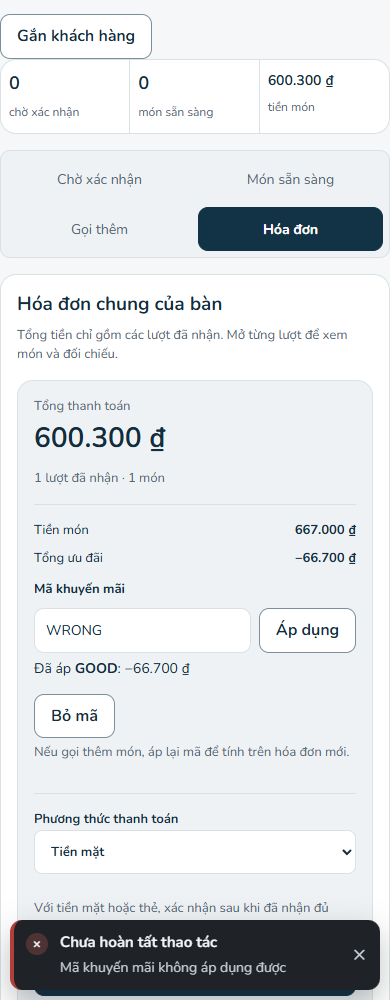
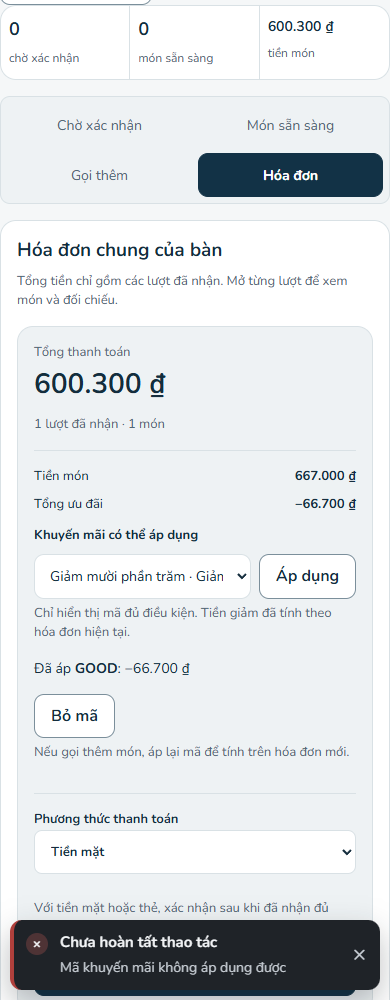
feat: select from eligible promotions instead of typing codes

Changed region(s): [[0.0, 0.0, 1.0, 0.651], [0.0, 0.0, 0.5538, 0.186], [0.9846, 0.031, 1.0, 0.155]]

diff --git a/src/service-workspace.js b/src/service-workspace.js
@@ -20,7 +20,7 @@ export function createServiceWorkspace({root, request, branchId, role, userId, i
   // Shares the console toast stack so the workspace and the shell announce
   // through one live region instead of two.
   const toast = sharedToast();
-  const state = {tables:[], products:[], table:null, session:null, tab:'confirm', paymentMethod:'CASH', promotionCode:'', filter:role==='CASHIER'?'PAY':'ALL', search:'', menuSearch:'', menuPage:1, category:'ALL', cart:new Map(), notes:new Map(), busy:false, message:'', bad:false, draft:null,serviceRequests:[]};
+  const state = {tables:[], products:[], table:null, session:null, tab:'confirm', paymentMethod:'CASH', promotionCode:'', promotions:[], promotionError:'', filter:role==='CASHIER'?'PAY':'ALL', search:'', menuSearch:'', menuPage:1, category:'ALL', cart:new Map(), notes:new Map(), busy:false, message:'', bad:false, draft:null,serviceRequests:[]};
   let disposed = false;
   let closeVnpay, customerDialog;
   let lastUpdated=null,syncError=false;
@@ -182,11 +182,18 @@ export function createServiceWorkspace({root, request, branchId, role, userId, i
       (next||holder).focus({preventScroll:true});
     }
   }
+  async function loadEligible(result,id){
+    result.promotions=[];result.promotionError='';
+    if(!mayPay||!result.session)return;
+    try{result.promotions=await request(`/api/staff/tables/${id}/promotions?branchId=${branchId}&sessionId=${encodeURIComponent(result.session.id)}`);}
+    catch(error){result.promotionError=error.message;}
+  }
+  function acceptEligible(result){state.promotions=Array.isArray(result.promotions)?result.promotions:[];state.promotionError=result.promotionError||'';if(!state.promotions.some(p=>p.code===state.promotionCode))state.promotionCode='';}
   function promotionPanel(){
     const selected=state.session?.checkoutPromotion;
     const discount=activeOrders().reduce((sum,o)=>sum+(o.discountAmount||0),0);
     const gross=activeOrders().reduce((sum,o)=>sum+o.totalAmount,0);
-    return `<section class="sw-promotion" aria-label="Mã khuyến mãi"><div class="sw-promotion-totals"><span>Tiền món</span><strong>${money(gross)}</strong><span>Tổng ưu đãi</span><strong>−${money(discount)}</strong></div><label for="sw-promotion-code">Mã khuyến mãi</label><div class="sw-promotion-entry"><input id="sw-promotion-code" data-sw-input="promotion" value="${e(state.promotionCode)}" maxlength="32" placeholder="Nhập mã khuyến mãi" autocomplete="off" autocapitalize="characters">${button('Áp dụng','apply-promotion')}</div>${selected?`<p class="sw-promotion-applied">Đã áp <strong>${e(selected.code)}</strong>: −${money(selected.amount)}</p>${button('Bỏ mã','remove-promotion')}<p class="sw-help">Nếu gọi thêm món, áp lại mã để tính trên hóa đơn mới.</p>`:'<p class="sw-help">Mã thành viên cần gắn khách trước khi áp dụng.</p>'}</section>`;
+    return `<section class="sw-promotion" aria-label="Mã khuyến mãi"><div class="sw-promotion-totals"><span>Tiền món</span><strong>${money(gross)}</strong><span>Tổng ưu đãi</span><strong>−${money(discount)}</strong></div><label for="sw-promotion-code">Khuyến mãi có thể áp dụng</label><div class="sw-promotion-entry"><select id="sw-promotion-code" data-sw-input="promotion" ${state.promotions.length?'':'disabled'}><option value="">Chọn ưu đãi</option>${state.promotions.map(p=>`<option value="${e(p.code)}" ${state.promotionCode===p.code?'selected':''}>${e(p.name)} · Giảm ${money(p.discountAmount)} (${e(p.code)})</option>`).join('')}</select>${button('Áp dụng','apply-promotion',state.promotions.length?'':'data-locked="true"')}</div>${state.promotionError?`<p class="sw-help" role="status">${e(state.promotionError)}</p>`:!state.promotions.length?'<p class="sw-help">Chưa có mã đủ điều kiện cho hóa đơn và khách hiện tại.</p>':'<p class="sw-help">Chỉ hiển thị mã đủ điều kiện. Tiền giảm đã tính theo hóa đơn hiện tại.</p>'}${selected?`<p class="sw-promotion-applied">Đã áp <strong>${e(selected.code)}</strong>: −${money(selected.amount)}</p>${button('Bỏ mã','remove-promotion')}<p class="sw-help">Nếu gọi thêm món, áp lại mã để tính trên hóa đơn mới.</p>`:'<p class="sw-help">Mã thành viên cần gắn khách trước khi áp dụng.</p>'}</section>`;
   }
   function patchTable() {
     if(!state.session || !root.querySelector('[data-sw-panel]')) { render(); return; }
@@ -197,7 +204,7 @@ export function createServiceWorkspace({root, request, branchId, role, userId, i
     const tabFocused = tabList.contains(document.activeElement);
     tabList.innerHTML = tabs();
     if (tabFocused) tabList.querySelector('[aria-selected="true"]').focus({preventScroll:true});
-    const snapshot = JSON.stringify([state.session.orders, state.tab, state.draft]);
+    const snapshot = JSON.stringify([state.session.orders,state.tab,state.draft,state.promotions,state.promotionError,state.session.checkoutPromotion]);
     const holder = root.querySelector('[data-sw-panel]');
     holder.setAttribute('aria-labelledby',`sw-tab-${state.tab}`);
     if(state.tab!=='menu' && panelSnapshot!==snapshot && !(holder.contains(document.activeElement) && document.activeElement.matches('input,textarea,select'))) {
@@ -232,7 +239,9 @@ export function createServiceWorkspace({root, request, branchId, role, userId, i
     }
     const id=state.table.id, version=selection;
     const [result, products] = await Promise.all([request(`/api/staff/tables/${id}/session?branchId=${branchId}`),loadProducts(force)]);
+    await loadEligible(result,id);
     if(disposed||version!==selection||state.table?.id!==id) return;
+    acceptEligible(result);
     const removed=state.products.filter(p=>state.cart.has(p.id)&&!products.some(n=>n.id===p.id));products.push(...removed.map(p=>({...p,isActive:false,canOrder:false,availabilityReason:'Đã ngừng bán'})));
     const pricesChanged=products.some(p=>state.cart.has(p.id)&&state.products.some(old=>old.id===p.id&&old.sellingPrice!==p.sellingPrice));
     state.products=products;
@@ -255,7 +264,9 @@ export function createServiceWorkspace({root, request, branchId, role, userId, i
     const version=++selection;
     const table=state.tables.find(t=>t.id===id); if(!table) return;
     const [result,products]=await Promise.all([request(`/api/staff/tables/${id}/session?branchId=${branchId}`),loadProducts()]);
+    await loadEligible(result,id);
     if(disposed||version!==selection) return;
+    acceptEligible(result);
     state.paymentMethod='CASH';state.promotionCode='';state.products=products;state.table={...table,...result.table};state.session=result.session;state.serviceRequests=result.serviceRequests||[];state.cart.clear();state.notes.clear();state.draft=readDraft(id);
     lastUpdated=new Date();syncError=false;state.tab=cashierView&&activeOrders().length?'bill':waitingOrders().length?'confirm':readyItems().length?'ready':activeOrders().length?'bill':'menu';render();
   }
@@ -326,7 +337,7 @@ export function createServiceWorkspace({root, request, branchId, role, userId, i
       if(action==='retry') return mutation(()=>submitDraft(state.draft),'Đã nhận lượt gọi món, không tạo trùng.');
       if(action==='discard') {clearDraft(state.table.id);state.draft=null;render();return;}
       if(action==='close') { if(!mayCloseEmpty())throw Error('Bàn còn yêu cầu hoặc món đang phục vụ. Vui lòng xử lý trước khi đóng.'); if(state.draft)throw Error('Còn lượt gọi món chưa rõ đã gửi thành công. Kiểm tra hoặc xóa bản nháp trước khi đóng bàn.'); if(!await confirmDialog({title:'Đóng bàn chưa gọi món?',message:`${state.table.tableName} sẽ trở về trạng thái trống. Món đang chọn trong giỏ sẽ được bỏ.`,confirmLabel:'Đóng bàn'}))return; return mutation(async()=>{await post(`/api/staff/tables/${state.table.id}/close-empty`);clearDraft(state.table.id);state.cart.clear();state.notes.clear();state.table=null;state.session=null;render();},'Đã đóng bàn, không phát sinh thanh toán.'); }
-      if(action==='apply-promotion'||action==='remove-promotion'){const code=action==='remove-promotion'?'':state.promotionCode.trim();if(action==='apply-promotion'&&!code)throw Error('Nhập mã khuyến mãi trước khi áp dụng.');root.querySelector('[data-sw-input=promotion]')?.blur();return mutation(async()=>{await post(`/api/staff/tables/${state.table.id}/promotion`,{sessionId:state.session.id,code});state.promotionCode='';},code?'Đã áp mã và cập nhật tổng thanh toán.':'Đã bỏ mã khuyến mãi.');}
+      if(action==='apply-promotion'||action==='remove-promotion'){const code=action==='remove-promotion'?'':state.promotionCode.trim();if(action==='apply-promotion'&&!code)throw Error('Chọn ưu đãi trước khi áp dụng.');root.querySelector('[data-sw-input=promotion]')?.blur();return mutation(async()=>{await post(`/api/staff/tables/${state.table.id}/promotion`,{sessionId:state.session.id,code});state.promotionCode='';},code?'Đã áp mã và cập nhật tổng thanh toán.':'Đã bỏ mã khuyến mãi.');}
       if(action==='checkout') {if(!mayPay)throw Error('Chỉ thu ngân được thanh toán.');const paidSessionId=state.session.id;const method=state.paymentMethod;if(method==='QR_BANKING')return mutation(async()=>{const payment=await post(`/api/payments/vnpay/tables/${state.table.id}`);closeVnpay?.();closeVnpay=showVnpayPayment(payment,request,async()=>{if(!disposed)await refresh();await openReceipt(request,'session',paidSessionId);});},'Đang chờ khách thanh toán qua VNPay.');if(!await confirmDialog({title:'Xác nhận thanh toán',message:`Đã nhận đủ ${money(total())} ${method==='CASH'?'bằng tiền mặt':'qua máy POS'}?`,confirmLabel:'Đã nhận đủ tiền'}))return;return mutation(async()=>{await post(`/api/staff/tables/${state.table.id}/checkout`,{paymentMethod:method});state.table=null;state.session=null;render();await openReceipt(request,'session',paidSessionId);},'Thanh toán thành công. Bàn đã trở về trạng thái trống.');}
     } catch(error) {showMessage(error.message,true);}
   }
@@ -339,7 +350,7 @@ export function createServiceWorkspace({root, request, branchId, role, userId, i
     if(type==='menu-search'||type==='category') {if(type==='menu-search')state.menuSearch=event.target.value;else state.category=event.target.value;state.menuPage=1;updateMenuResults();}
   }
   function onTabKeydown(event) {
-    if(event.key==='Enter'&&event.target.dataset.swInput==='promotion'){event.preventDefault();root.querySelector('[data-sw=apply-promotion]')?.click();return;}
+    if(event.key==='Enter'&&event.target.tagName==='INPUT'&&event.target.dataset.swInput==='promotion'){event.preventDefault();root.querySelector('[data-sw=apply-promotion]')?.click();return;}
     if(state.busy || !event.target.matches('[role="tab"]')) return;
     const ids=['confirm','ready','menu','bill'];
     let index=ids.indexOf(state.tab);

diff --git a/src/service-workspace.css b/src/service-workspace.css
@@ -6,4 +6,4 @@
 .service-workspace .sw-tabs button[aria-selected=true]{background:var(--primary);color:var(--on-primary);border-color:var(--primary);font-weight:700}
 .service-workspace .sw-tabs button span{display:inline-block;margin-left:4px;padding:1px 5px;border-radius:4px;background:var(--accent-soft);color:var(--ink)}
 @media(max-width:600px){.service-workspace .sw-tabs{display:grid;grid-template-columns:1fr 1fr}.service-workspace .sw-tabs button{padding:10px 6px}}
-.sw-promotion{margin:16px 0;padding:16px 0;border-block:1px solid var(--line);text-align:left}.sw-promotion label{display:block;font-weight:700;margin:12px 0 8px}.sw-promotion-entry{display:flex;gap:8px;flex-wrap:wrap}.sw-promotion-entry input{min-width:0;flex:1 1 140px;width:100%;padding:11px;border:1px solid var(--line);border-radius:10px;background:var(--surface,#fff);color:var(--ink)}.sw-promotion-totals{display:grid;grid-template-columns:1fr auto;gap:8px;font-size:13px}.sw-promotion-applied{font-size:14px;margin:12px 0;overflow-wrap:anywhere}
+.sw-promotion{margin:16px 0;padding:16px 0;border-block:1px solid var(--line);text-align:left}.sw-promotion label{display:block;font-weight:700;margin:12px 0 8px}.sw-promotion-entry{display:flex;gap:8px;flex-wrap:wrap}.sw-promotion-entry select{min-width:0;flex:1 1 140px;width:100%;padding:11px;border:1px solid var(--line);border-radius:10px;background:var(--surface,#fff);color:var(--ink)}.sw-promotion-totals{display:grid;grid-template-columns:1fr auto;gap:8px;font-size:13px}.sw-promotion-applied{font-size:14px;margin:12px 0;overflow-wrap:anywhere}
